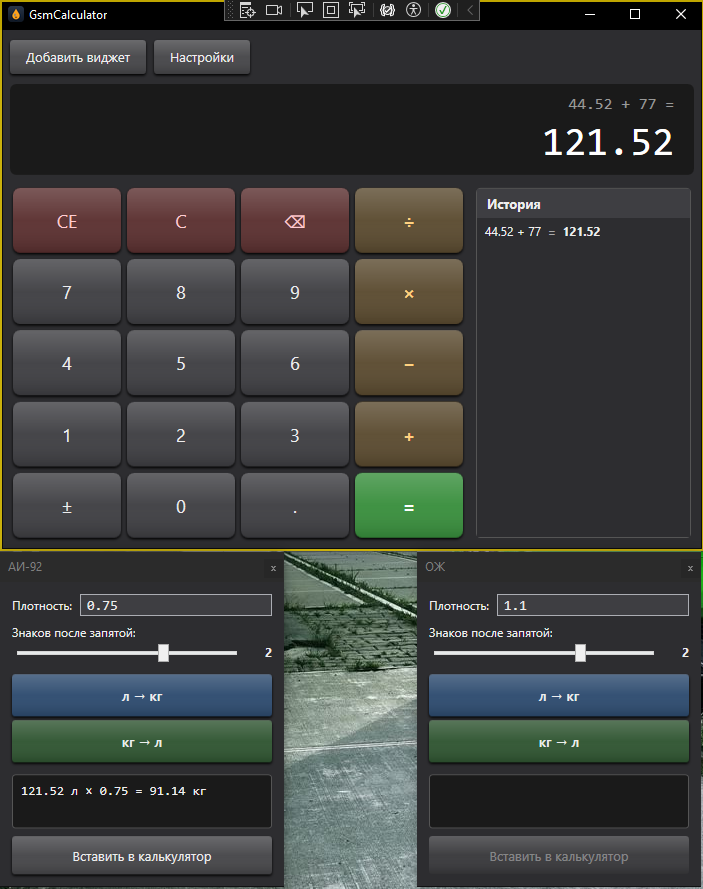
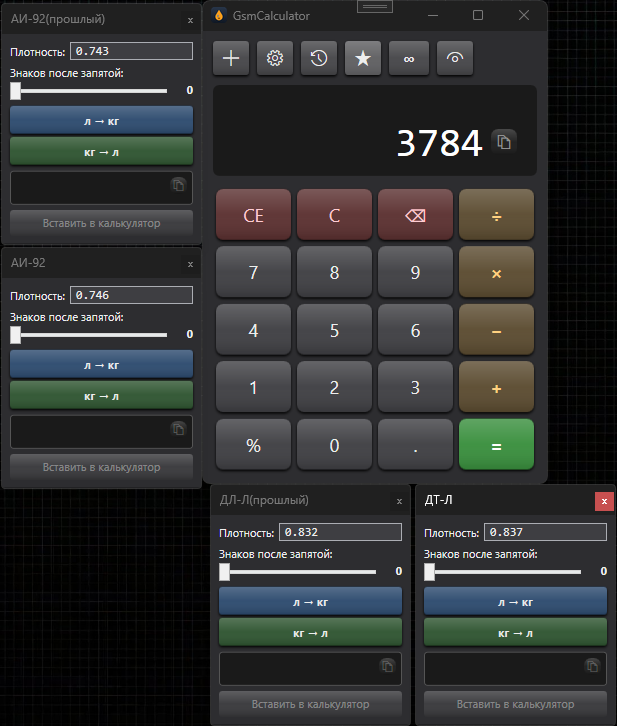
docs: add current UI screenshots to README
Replace stale v1.0 images and restore the screenshot section so GitHub shows the calculator, widgets, and settings.

diff --git a/README.md b/README.md
@@ -18,7 +18,10 @@
 
 ## Скриншоты
 
-Актуальные кадры (главное окно, виджеты, настройки) — в [`docs/screenshots/`](docs/screenshots/) после ближайшего релиза.
+![Главное окно и виджеты](docs/screenshots/main-dark.png)
+![Конвертация л↔кг](docs/screenshots/widget.png)
+![Только калькулятор](docs/screenshots/calculator.png)
+![Настройки](docs/screenshots/settings.png)
 
 ## Возможности
 
